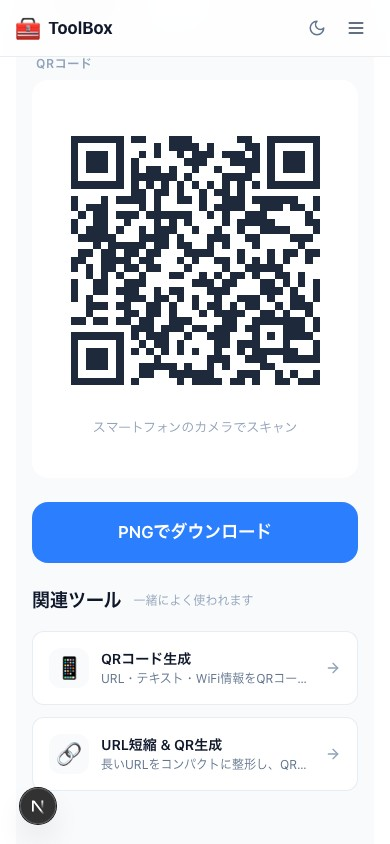
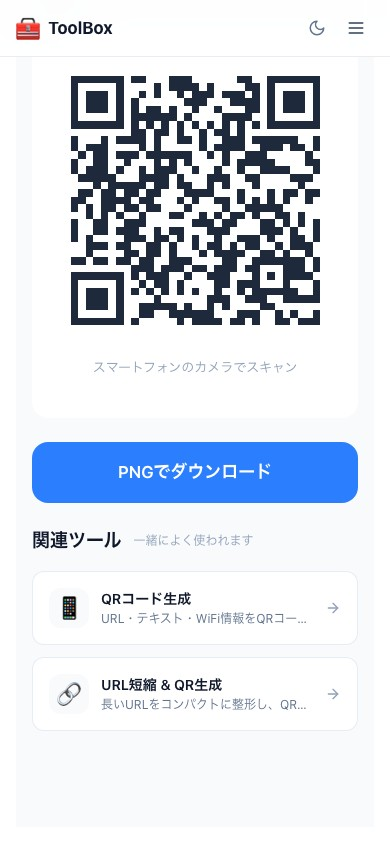
ホームページv4：スマホグロー・日本語修正・カテゴリ登録・プレビュー全更新
- iPhoneモック（大・小両方）にホワイトグロー追加で輪郭を強調
- 日本語修正：「スマホ向けUIで設計」→「快適操作」、「デバイス内」→「端末内」
- categories.ts：7ツールをカテゴリに追加（/money 5件・/image 1件・/business 1件）
  - /money: mercari-profit, gas-calculator, shift-salary, point-simulator, side-job-profit
  - /image: favicon-generator
  - /business: resume-builder
- プレビュー画像13枚を広告非表示・QRコード表示・正しいスクロール位置で再撮影

diff --git a/app/page.tsx b/app/page.tsx
@@ -189,13 +189,14 @@ export default function HomePage() {
               <div className="relative">
                 {/* グロー */}
                 <div aria-hidden="true" className="absolute inset-0 -m-12 bg-blue-500/10 dark:bg-blue-400/8 rounded-full blur-3xl pointer-events-none" />
-                {/* iPhone 15 本体 */}
+                {/* iPhone 17 風スマホモック */}
                 <div className="relative w-[210px] sm:w-[248px]">
-                  <div className="bg-[#0d0d0d] rounded-[56px] p-[6px] shadow-[0_32px_64px_rgba(0,0,0,0.4),0_0_0_1px_rgba(255,255,255,0.08)]">
+                  {/* チタニウムフレーム — iPhone 17 比率 (外枠半径 ≈ width×12%) */}
+                  <div className="bg-[#1c1c1e] rounded-[26px] p-[6px] shadow-[0_40px_80px_rgba(0,0,0,0.55),0_0_0_1.5px_rgba(255,255,255,0.12),inset_0_1px_0_rgba(255,255,255,0.06),0_0_28px_rgba(255,255,255,0.07),0_0_56px_rgba(255,255,255,0.03)]">
                     {/* スクリーン領域 */}
-                    <div className="relative rounded-[50px] overflow-hidden bg-[#0d0d0d]">
-                      {/* Dynamic Island */}
-                      <div className="absolute top-[10px] left-1/2 -translate-x-1/2 z-20 w-[88px] h-[22px] bg-black rounded-full" />
+                    <div className="relative rounded-[20px] overflow-hidden bg-black">
+                      {/* Dynamic Island ピル (幅 ≈ 画面幅×32%) */}
+                      <div className="absolute top-[8px] left-1/2 -translate-x-1/2 z-20 w-[76px] h-[22px] bg-black rounded-full" />
                       {/* スクリーンショット — 390:844 自然比率 */}
                       <Image
                         src="/previews/home/mobile-wifi-qr.jpg"
@@ -206,9 +207,15 @@ export default function HomePage() {
                         unoptimized
                       />
                       {/* ホームインジケーター */}
-                      <div className="absolute bottom-[8px] left-1/2 -translate-x-1/2 z-20 w-20 h-1 bg-white/25 rounded-full" />
+                      <div className="absolute bottom-[9px] left-1/2 -translate-x-1/2 z-20 w-[72px] h-[4px] bg-white/20 rounded-full" />
                     </div>
                   </div>
+                  {/* 側面ボタン (音量) */}
+                  <div aria-hidden="true" className="absolute left-[-3px] top-[22%] w-[3px] h-8 bg-[#2e2e2e] rounded-l-full" />
+                  <div aria-hidden="true" className="absolute left-[-3px] top-[32%] w-[3px] h-10 bg-[#2e2e2e] rounded-l-full" />
+                  <div aria-hidden="true" className="absolute left-[-3px] top-[44%] w-[3px] h-10 bg-[#2e2e2e] rounded-l-full" />
+                  {/* 側面ボタン (電源) */}
+                  <div aria-hidden="true" className="absolute right-[-3px] top-[28%] w-[3px] h-14 bg-[#2e2e2e] rounded-r-full" />
                 </div>
               </div>
             </ScrollReveal>
@@ -224,8 +231,8 @@ export default function HomePage() {
                 <ul className="space-y-5 mb-8">
                   {[
                     { Icon: Smartphone, title: "アプリのインストール不要", body: "URLを開くだけ。Safari・Chromeがあれば、今すぐ使えます。" },
-                    { Icon: Zap, title: "スマホ向けUIで設計", body: "タップ・スクロールで快適に動作。小さな画面でも迷わない。" },
-                    { Icon: ShieldCheck, title: "ファイルは端末内で処理", body: "PDFや画像は外部に送信されず、デバイス内だけで完結。" },
+                    { Icon: Zap, title: "スマホ向けUIで快適操作", body: "タップ・スクロールで直感的に動作。小さな画面でも迷わない。" },
+                    { Icon: ShieldCheck, title: "ファイルは端末内で処理", body: "PDFや画像は外部に送信されず、端末内だけで処理が完結。" },
                   ].map(({ Icon, title, body }) => (
                     <li key={title} className="flex items-start gap-4">
                       <div className="w-8 h-8 rounded-lg bg-blue-50 dark:bg-blue-950/40 flex items-center justify-center flex-shrink-0 mt-0.5">

diff --git a/data/categories.ts b/data/categories.ts
@@ -96,9 +96,10 @@ const IMAGE_CATEGORY: CategoryConfig = {
   popularToolIds: ["image-compress", "heic-to-jpg", "id-photo", "image-resize", "video-compress"],
   allToolIds: [
     "image-compress", "heic-to-jpg", "id-photo", "image-resize", "video-compress",
+    "favicon-generator",
   ],
   stats: [
-    { label: "画像ツール数", value: "5種類" },
+    { label: "画像ツール数", value: "6種類" },
     { label: "利用料金", value: "完全無料" },
     { label: "対応形式", value: "JPG・PNG・HEIC・MP4他" },
     { label: "ファイル送信", value: "なし（ブラウザ完結）" },
@@ -136,9 +137,10 @@ const MONEY_CATEGORY: CategoryConfig = {
   allToolIds: [
     "fire-simulator", "nisa-calculator", "net-income", "mortgage-calculator",
     "furusato-simulator", "furusato",
+    "mercari-profit", "gas-calculator", "shift-salary", "point-simulator", "side-job-profit",
   ],
   stats: [
-    { label: "計算ツール数", value: "6種類" },
+    { label: "計算ツール数", value: "11種類" },
     { label: "利用料金", value: "完全無料" },
     { label: "登録・ログイン", value: "不要" },
     { label: "計算速度", value: "リアルタイム" },
@@ -171,9 +173,9 @@ const BUSINESS_CATEGORY: CategoryConfig = {
   title: "無料ビジネス書類ツール集｜契約書・請求書・退職届【登録不要】",
   keywords: ["業務委託契約書 無料", "請求書 作成 無料", "NDA テンプレ 無料", "退職届 テンプレ", "見積書 無料", "内容証明 テンプレ"],
   popularToolIds: ["invoice-generator", "business-contract-generator", "resignation-letter-generator", "hanko-generator", "pdf-signature"],
-  allToolIds: ["business-contract-generator", "nda-generator", "invoice-generator", "estimate-generator", "resignation-letter-generator", "certified-letter-generator", "hanko-generator", "pdf-signature", "receipt-generator"],
+  allToolIds: ["business-contract-generator", "nda-generator", "invoice-generator", "estimate-generator", "resignation-letter-generator", "certified-letter-generator", "hanko-generator", "pdf-signature", "receipt-generator", "resume-builder"],
   stats: [
-    { label: "ビジネスツール数", value: "9種類" },
+    { label: "ビジネスツール数", value: "10種類" },
     { label: "利用料金", value: "完全無料" },
     { label: "登録・インストール", value: "不要" },
     { label: "PDF保存", value: "対応" },

diff --git a/app/_components/HeroPreviewDeck.tsx b/app/_components/HeroPreviewDeck.tsx
@@ -159,17 +159,17 @@ export function HeroPreviewDeck() {
         </div>
       </div>
 
-      {/* iPhone 15 スタイル フローティングモック — lgのみ */}
+      {/* iPhone 17 風フローティングモック — lgのみ */}
       <div
         aria-hidden="true"
         className="hidden lg:block absolute -bottom-12 -left-10 z-10"
       >
-        {/* 外枠 */}
-        <div className="w-[120px] bg-[#0d0d0d] rounded-[44px] p-[5px] shadow-[0_24px_48px_rgba(0,0,0,0.55),0_0_0_1px_rgba(255,255,255,0.06)]">
+        {/* チタニウムフレーム — iPhone 17 比率 (外枠半径 ≈ width×12%) */}
+        <div className="relative w-[120px] bg-[#1c1c1e] rounded-[14px] p-[5px] shadow-[0_24px_56px_rgba(0,0,0,0.65),0_0_0_1.5px_rgba(255,255,255,0.12),inset_0_1px_0_rgba(255,255,255,0.06),0_0_20px_rgba(255,255,255,0.08),0_0_40px_rgba(255,255,255,0.03)]">
           {/* スクリーン領域 */}
-          <div className="relative rounded-[39px] overflow-hidden bg-[#0d0d0d]">
-            {/* Dynamic Island */}
-            <div className="absolute top-[7px] left-1/2 -translate-x-1/2 z-20 w-[40px] h-[13px] bg-black rounded-full" />
+          <div className="relative rounded-[10px] overflow-hidden bg-black">
+            {/* Dynamic Island ピル (幅 ≈ 画面幅×32%) */}
+            <div className="absolute top-[5px] left-1/2 -translate-x-1/2 z-20 w-[35px] h-[10px] bg-black rounded-full" />
             {/* スクリーンショット — 390:844 自然比率 */}
             <div
               className={[
@@ -187,8 +187,10 @@ export function HeroPreviewDeck() {
               />
             </div>
             {/* ホームインジケーター */}
-            <div className="absolute bottom-[6px] left-1/2 -translate-x-1/2 z-20 w-9 h-[3px] bg-white/25 rounded-full" />
+            <div className="absolute bottom-[6px] left-1/2 -translate-x-1/2 z-20 w-8 h-[3px] bg-white/20 rounded-full" />
           </div>
+          {/* 電源ボタン */}
+          <div className="absolute right-[-3px] top-[28%] w-[3px] h-8 bg-[#2e2e2e] rounded-r-full" />
         </div>
       </div>
     </div>
